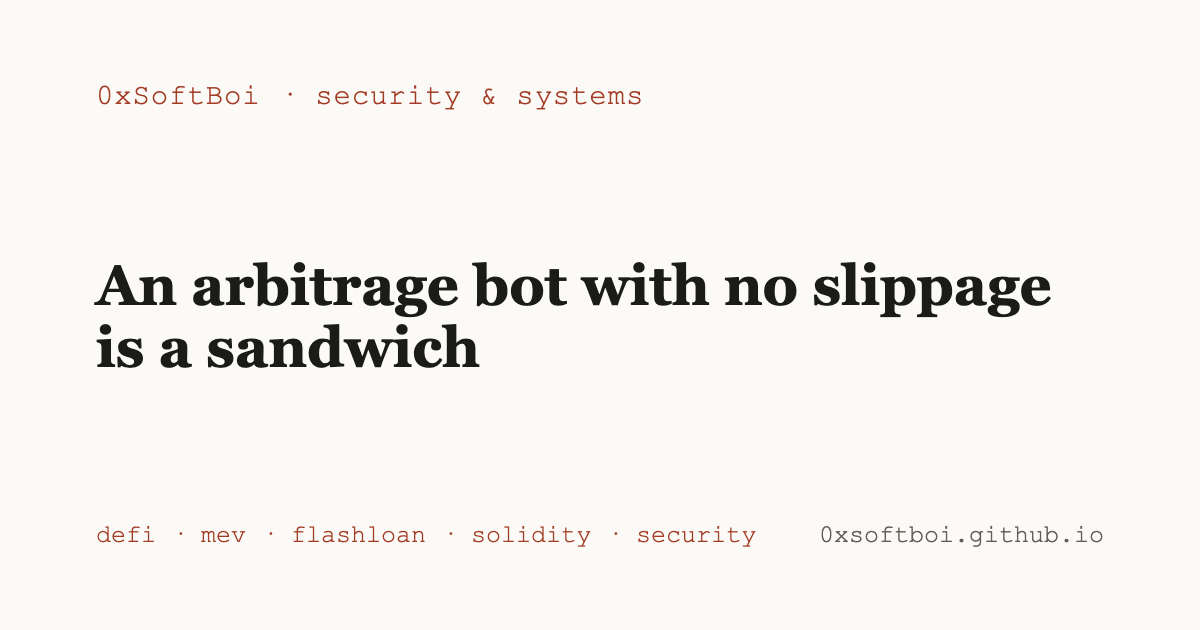
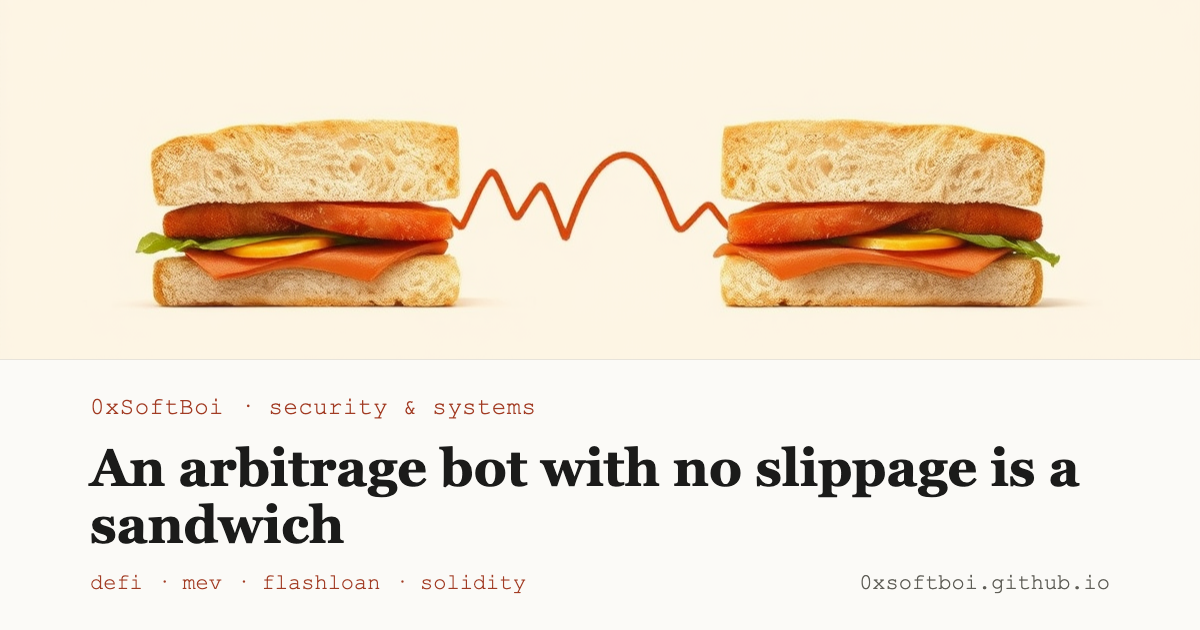
Themed art + series for the two newest posts
Themed OG cards + in-page heroes for "Who audits the auditor?" (series: Applied ML)
and "An arbitrage bot with no slippage is a sandwich".

diff --git a/_charts/gen_post_art.py b/_charts/gen_post_art.py
@@ -48,6 +48,8 @@ MOTIFS = {
     "rebuilding-a-perps-dex-from-its-docs": "a perpetual-futures price chart reconstructed from blueprint documents, a hidden house-edge tilt",
     "a-social-good-protocol-built-by-an-agent-fleet": "a fleet of small agent nodes collaboratively assembling a contract, one node inspecting another's work",
     "running-an-op-stack-l2-with-reth": "a layered rollup stack settling onto a base chain, four interlocking process blocks sharing a key, a pipeline of CI checks",
+    "who-audits-the-auditor": "an auditor inspecting another auditor, a lie-detector needle sweeping a grid of code detectors, recursive scrutiny",
+    "an-arb-bot-with-no-slippage-is-a-sandwich": "a trade caught between two sandwich slices, a flash-loan arbitrage loop with a slippage gap, MEV",
 }
 
 

diff --git a/_posts/2026-06-09-who-audits-the-auditor.md b/_posts/2026-06-09-who-audits-the-auditor.md
@@ -2,6 +2,7 @@
 layout: post
 title: "Who audits the auditor?"
 date: 2026-06-09
+series: "Applied ML"
 tags: [security, static-analysis, agents, solidity, tooling]
 image: /assets/og/who-audits-the-auditor.png
 excerpt: "I built a Solidity static-analysis tool with an agent fleet. The phase that mattered wasn't writing the detectors — it was pointing a separate model at them and saying: lie detector, prove you lie."
